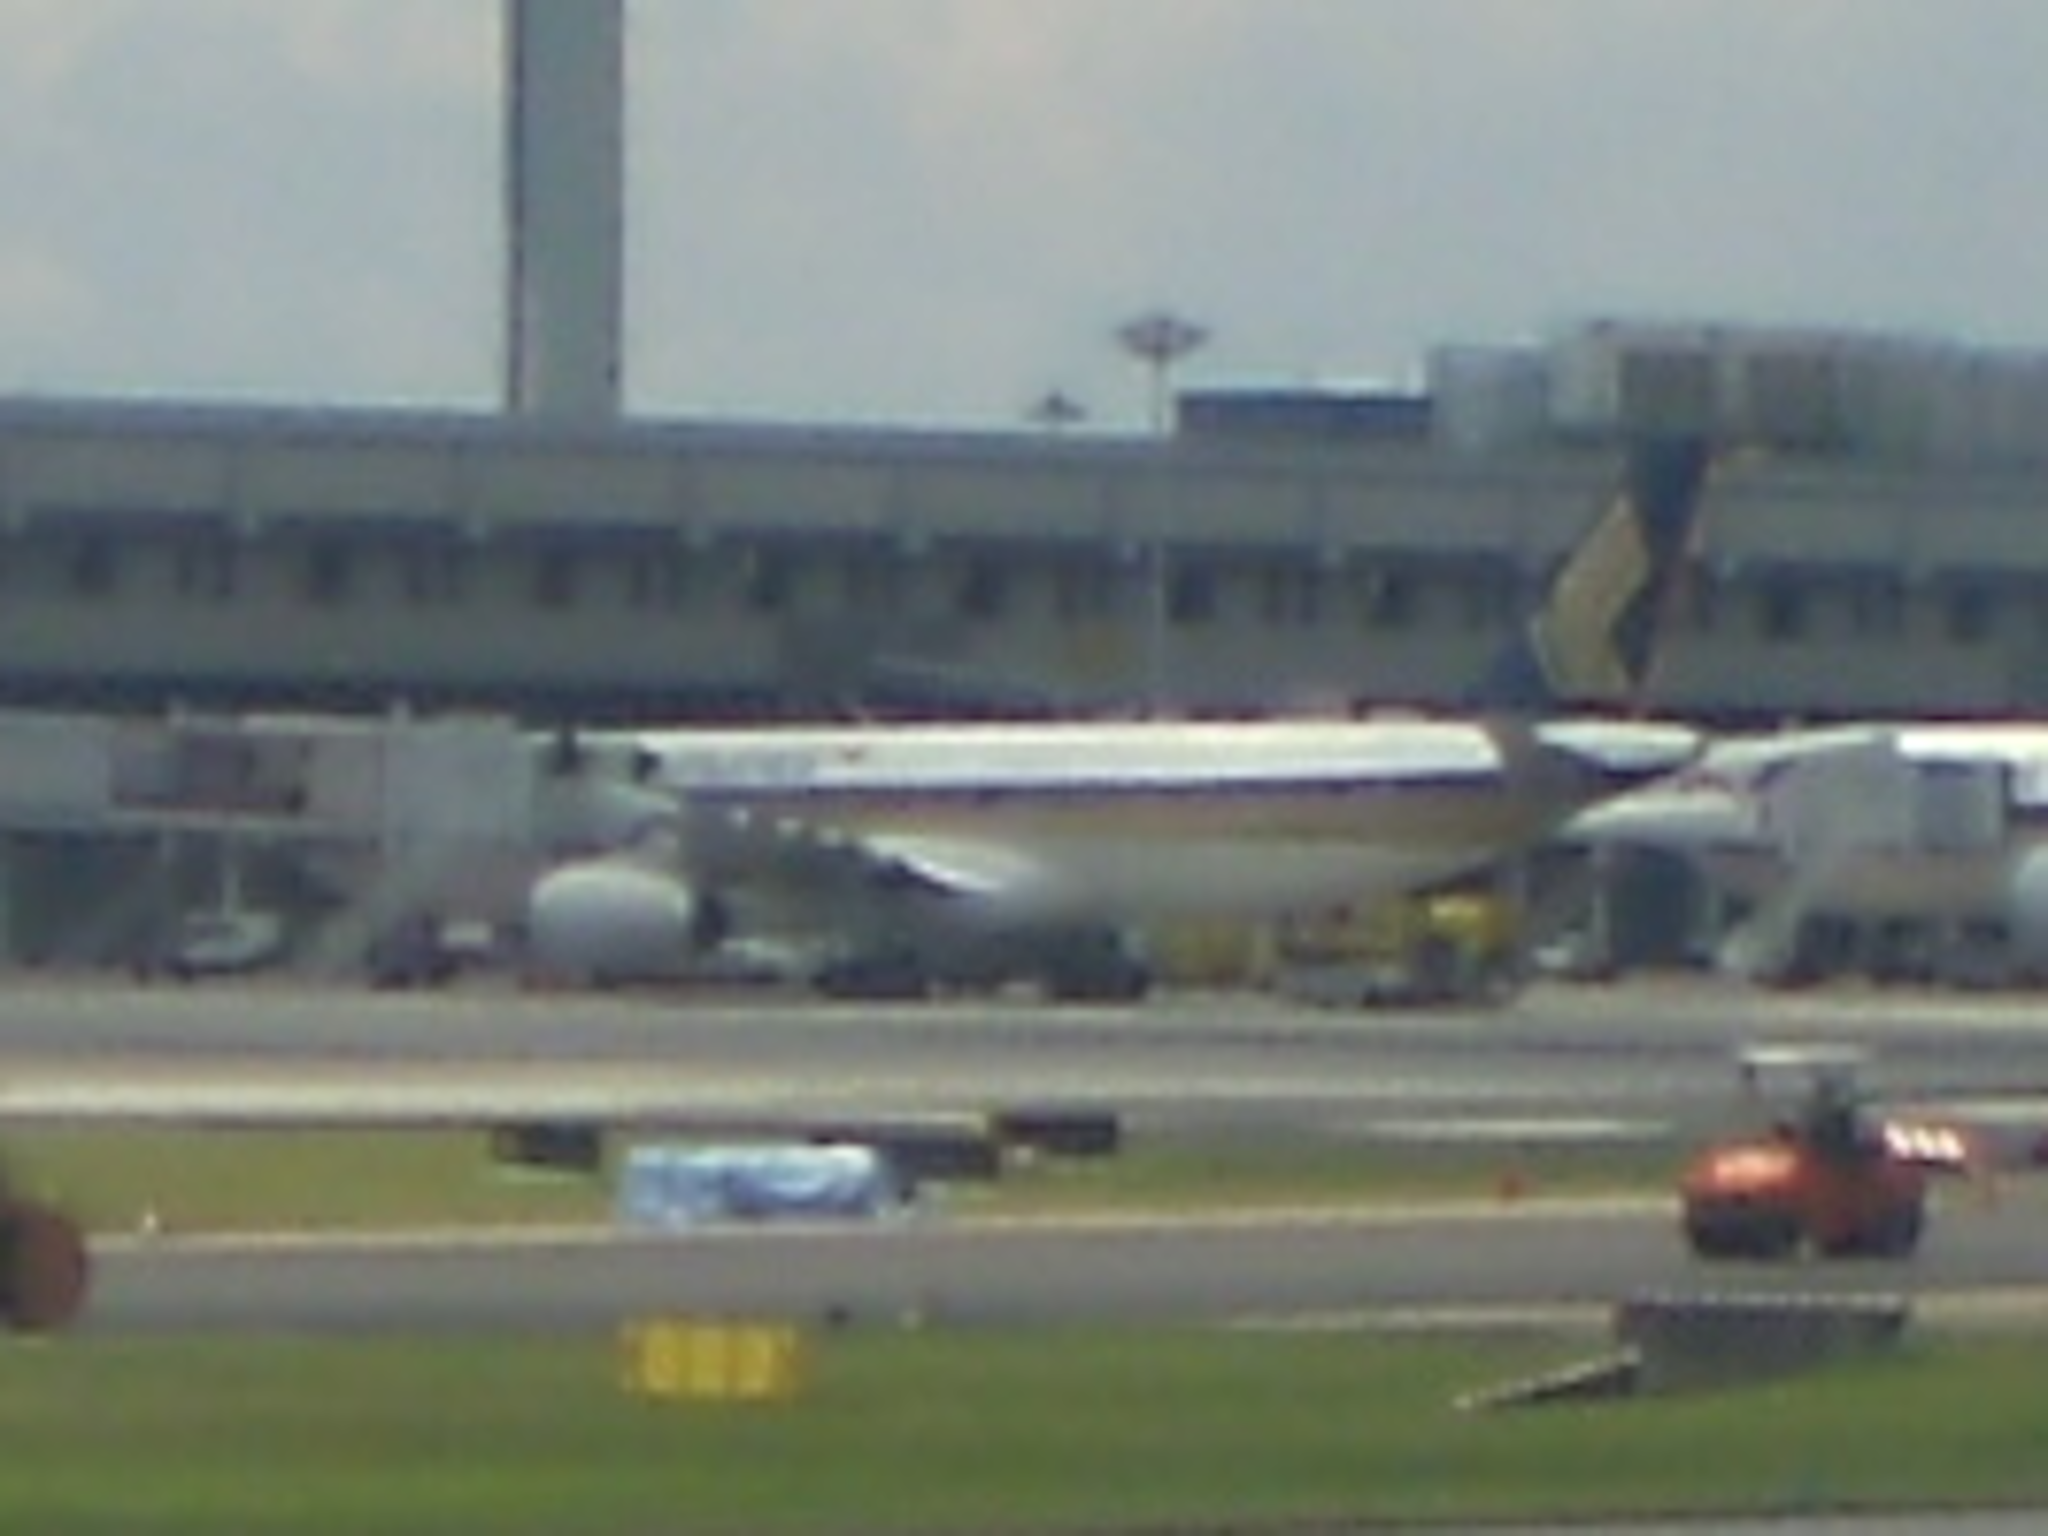
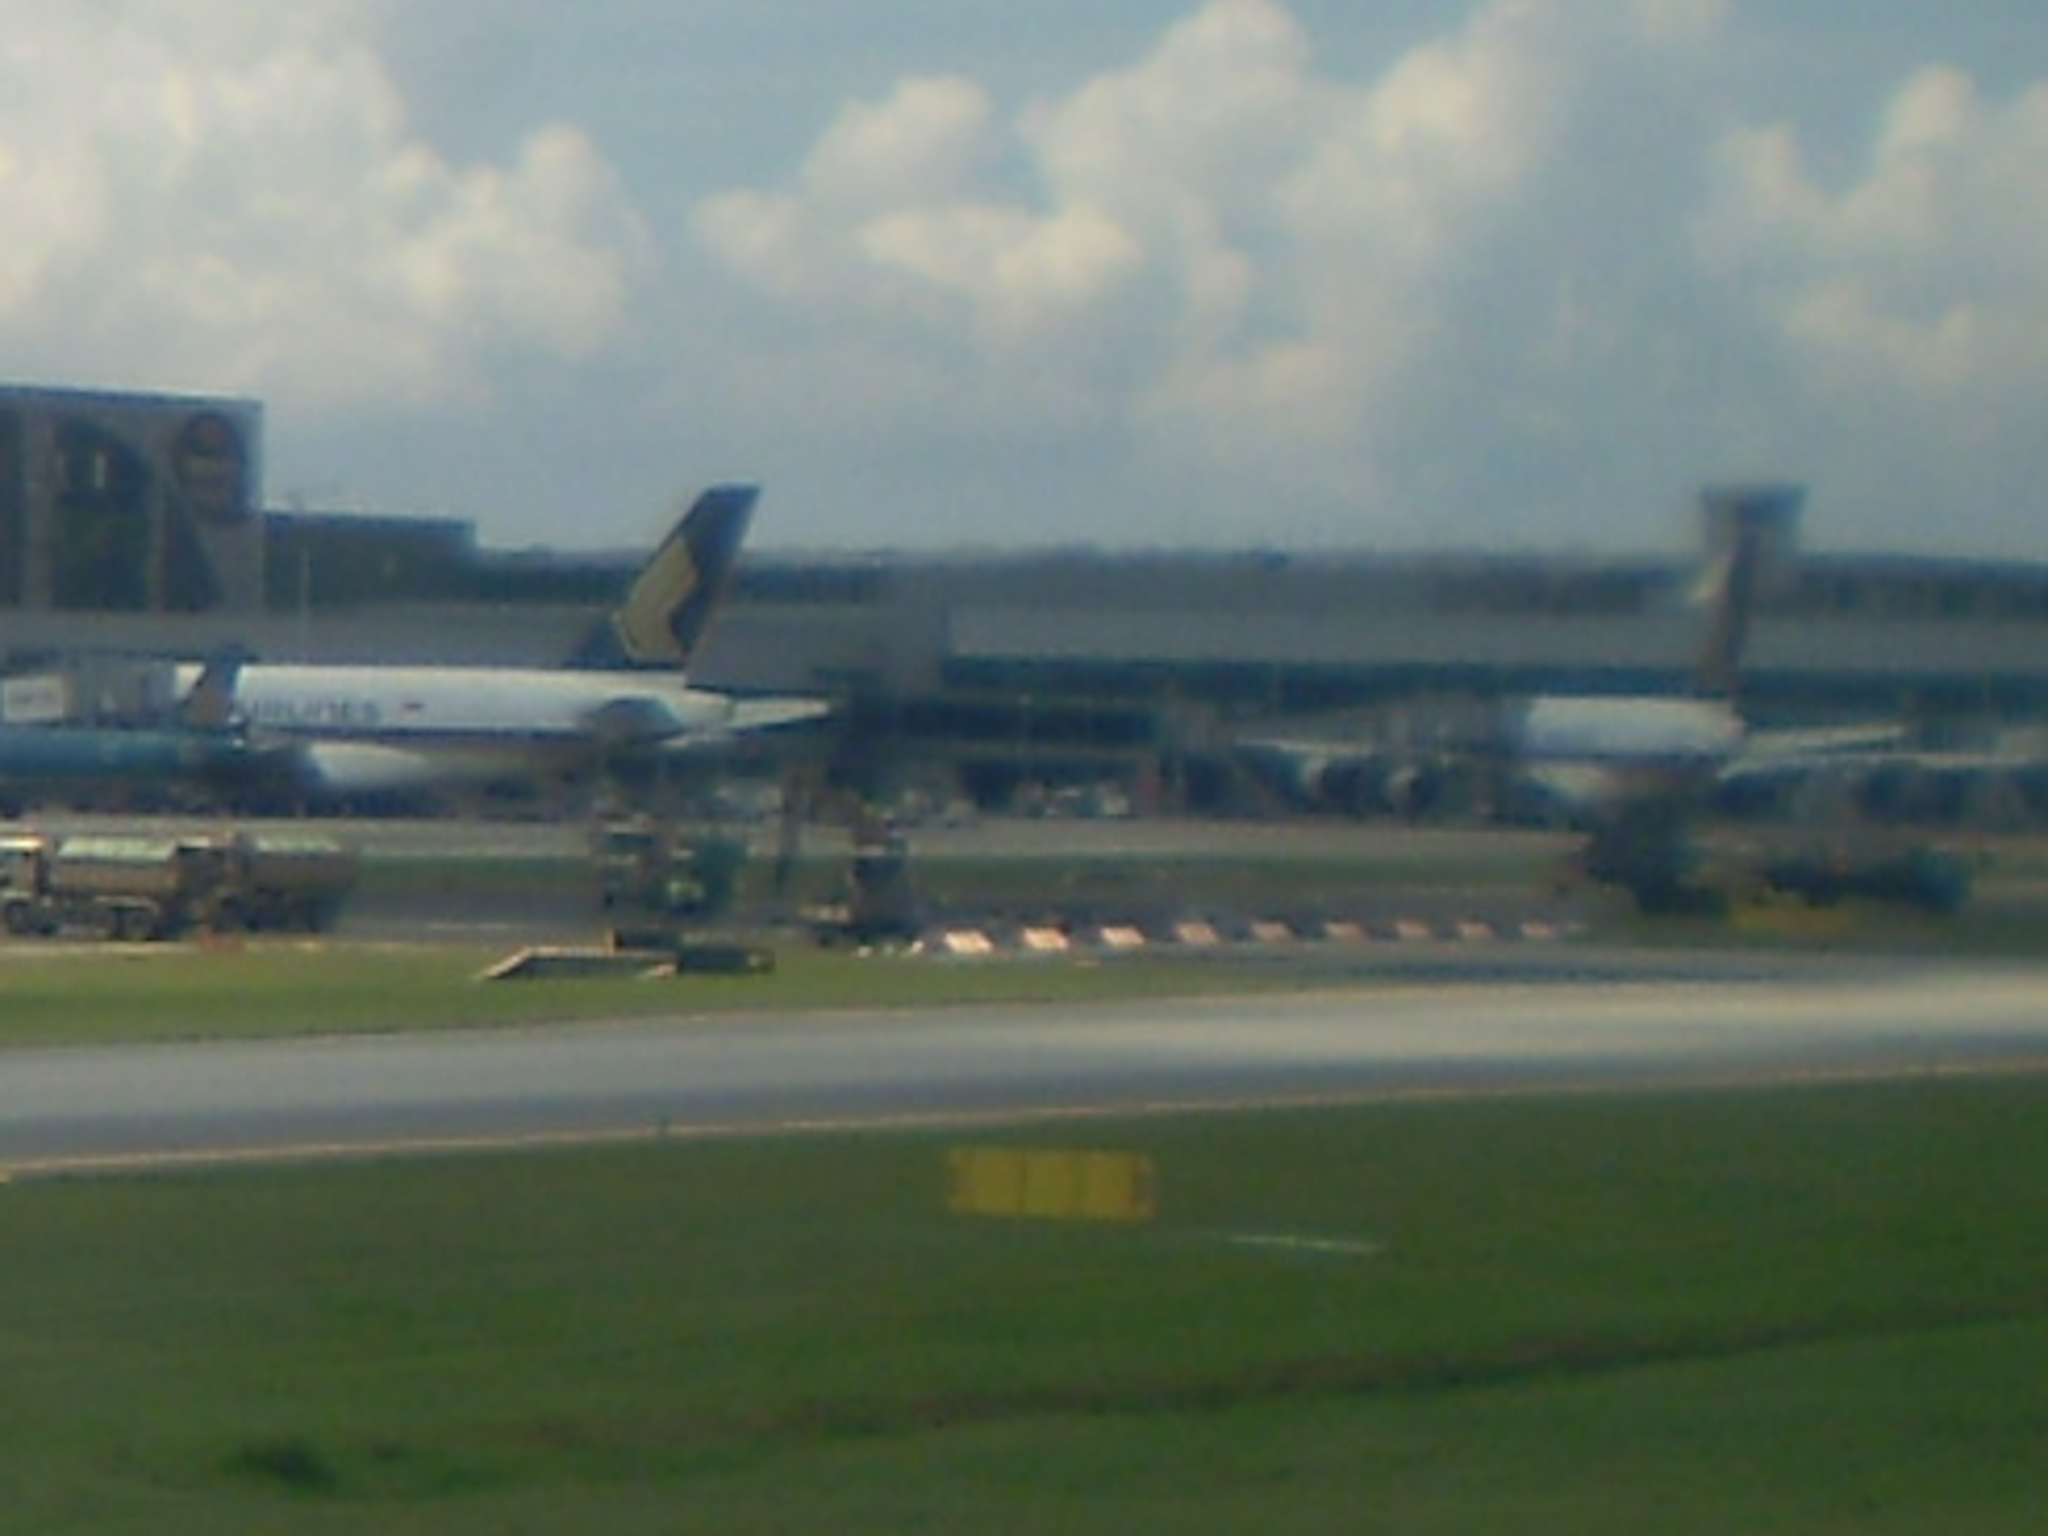
Initial Commit

diff --git a/gatsby-config.js b/gatsby-config.js
@@ -6,7 +6,7 @@
 
 module.exports = {
   siteMetadata: {
-    title: `Au-venturous Buddy Gotta Fly 'Em All: Singapore Airlines A330-300`,
+    title: `Au-venturous Buddy Gotta Fly 'Em All: Singapore Airlines A380-800`,
     author: `Au-venturous Buddy`
   },
   plugins: [
@@ -26,8 +26,8 @@ module.exports = {
     {
       resolve: `gatsby-plugin-manifest`,
       options: {
-        name: `Au-venturous Buddy Gotta Fly 'Em All: Singapore Airlines A330-300`,
-        short_name: `AUVB-GFEA-SIN-A333`,
+        name: `Au-venturous Buddy Gotta Fly 'Em All: Singapore Airlines A380-800`,
+        short_name: `AUVB-GFEA-SIN-A388`,
         start_url: `/`,
         background_color: `#017BFF`,
         theme_color: `#017BFF`,

diff --git a/capacitor.config.ts b/capacitor.config.ts
@@ -1,8 +1,8 @@
 import { CapacitorConfig } from '@capacitor/cli';
 
 const config: CapacitorConfig = {
-  appId: 'com.a333.sia.gfea.auvb',
-  appName: "Au-venturous Buddy Gotta Fly 'Em All: Singapore Airlines A330-300",
+  appId: 'com.a388.sia.gfea.auvb',
+  appName: "Au-venturous Buddy Gotta Fly 'Em All: Singapore Airlines A380-800",
   webDir: 'public',
   bundledWebRuntime: false
 };

diff --git a/src/assets/index.md b/src/assets/index.md
@@ -1,5 +1,5 @@
 ---
-title: "Singapore Airlines A330-300"
-retired: true
+title: "Singapore Airlines A380-800"
+retired: false
 category: "Wordpress Posts"
 ---